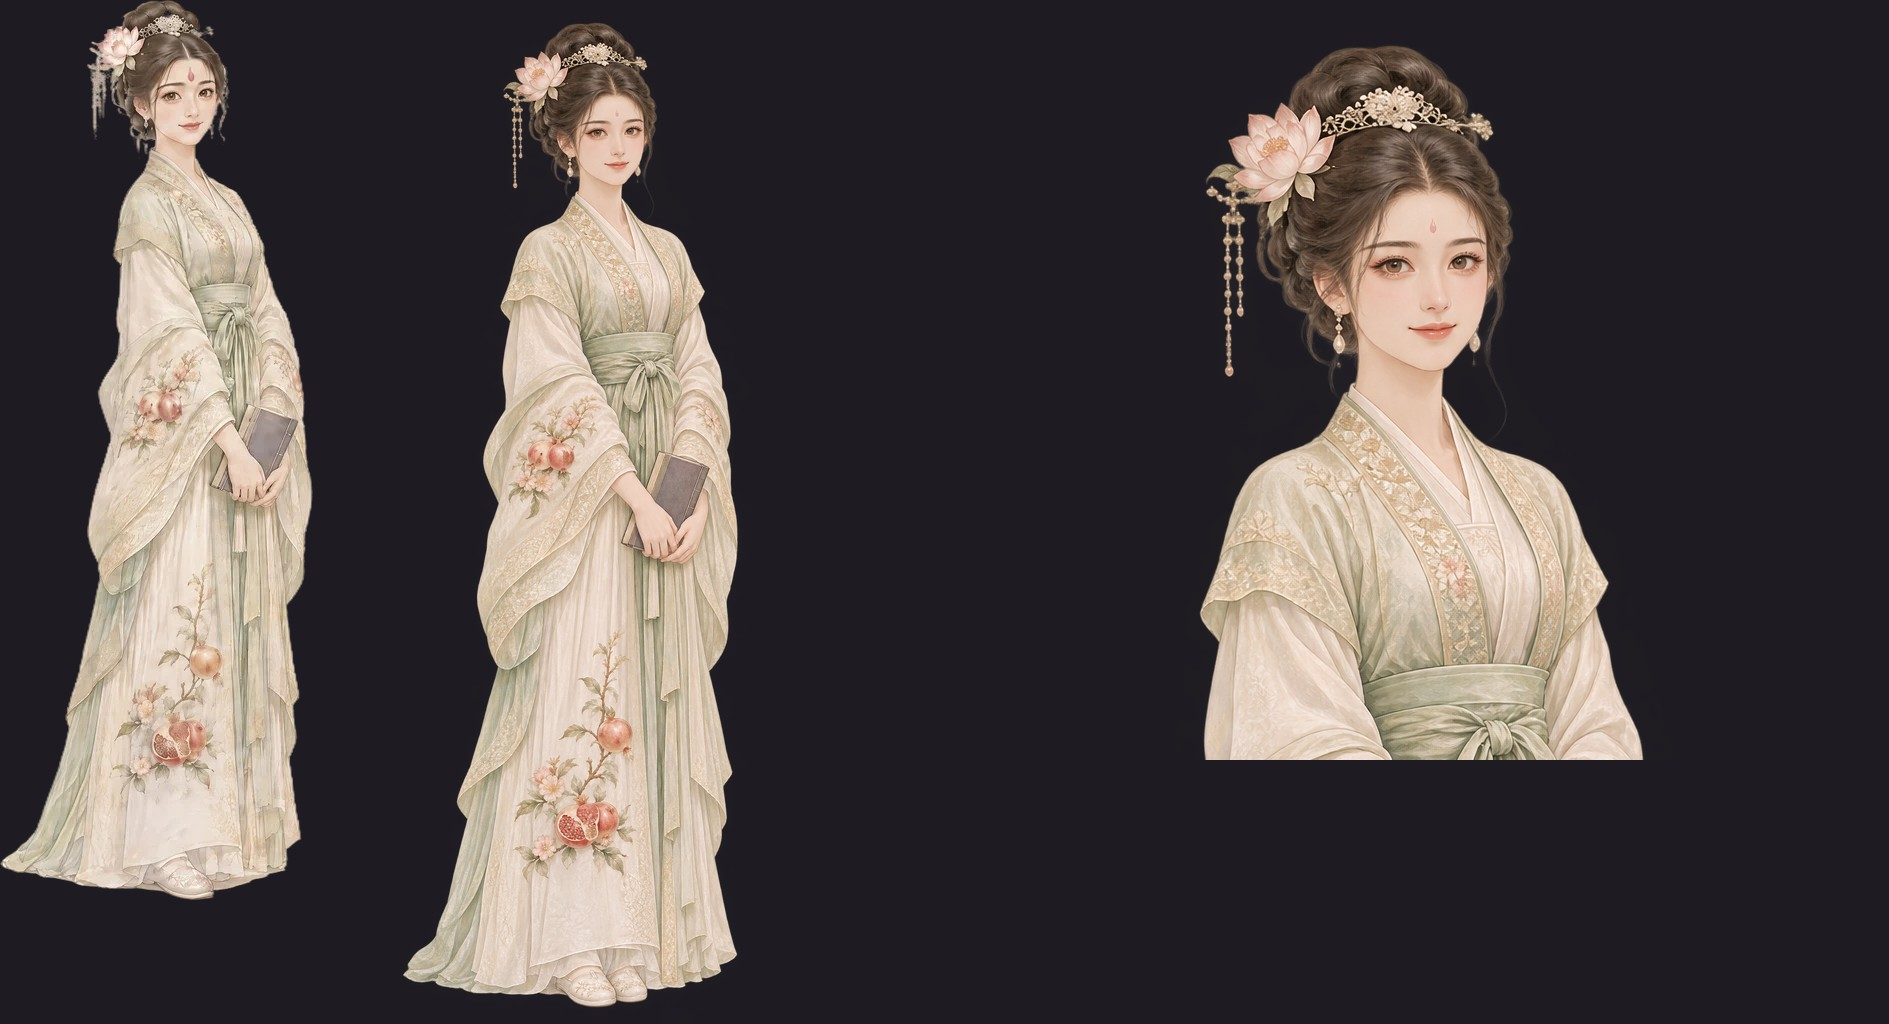
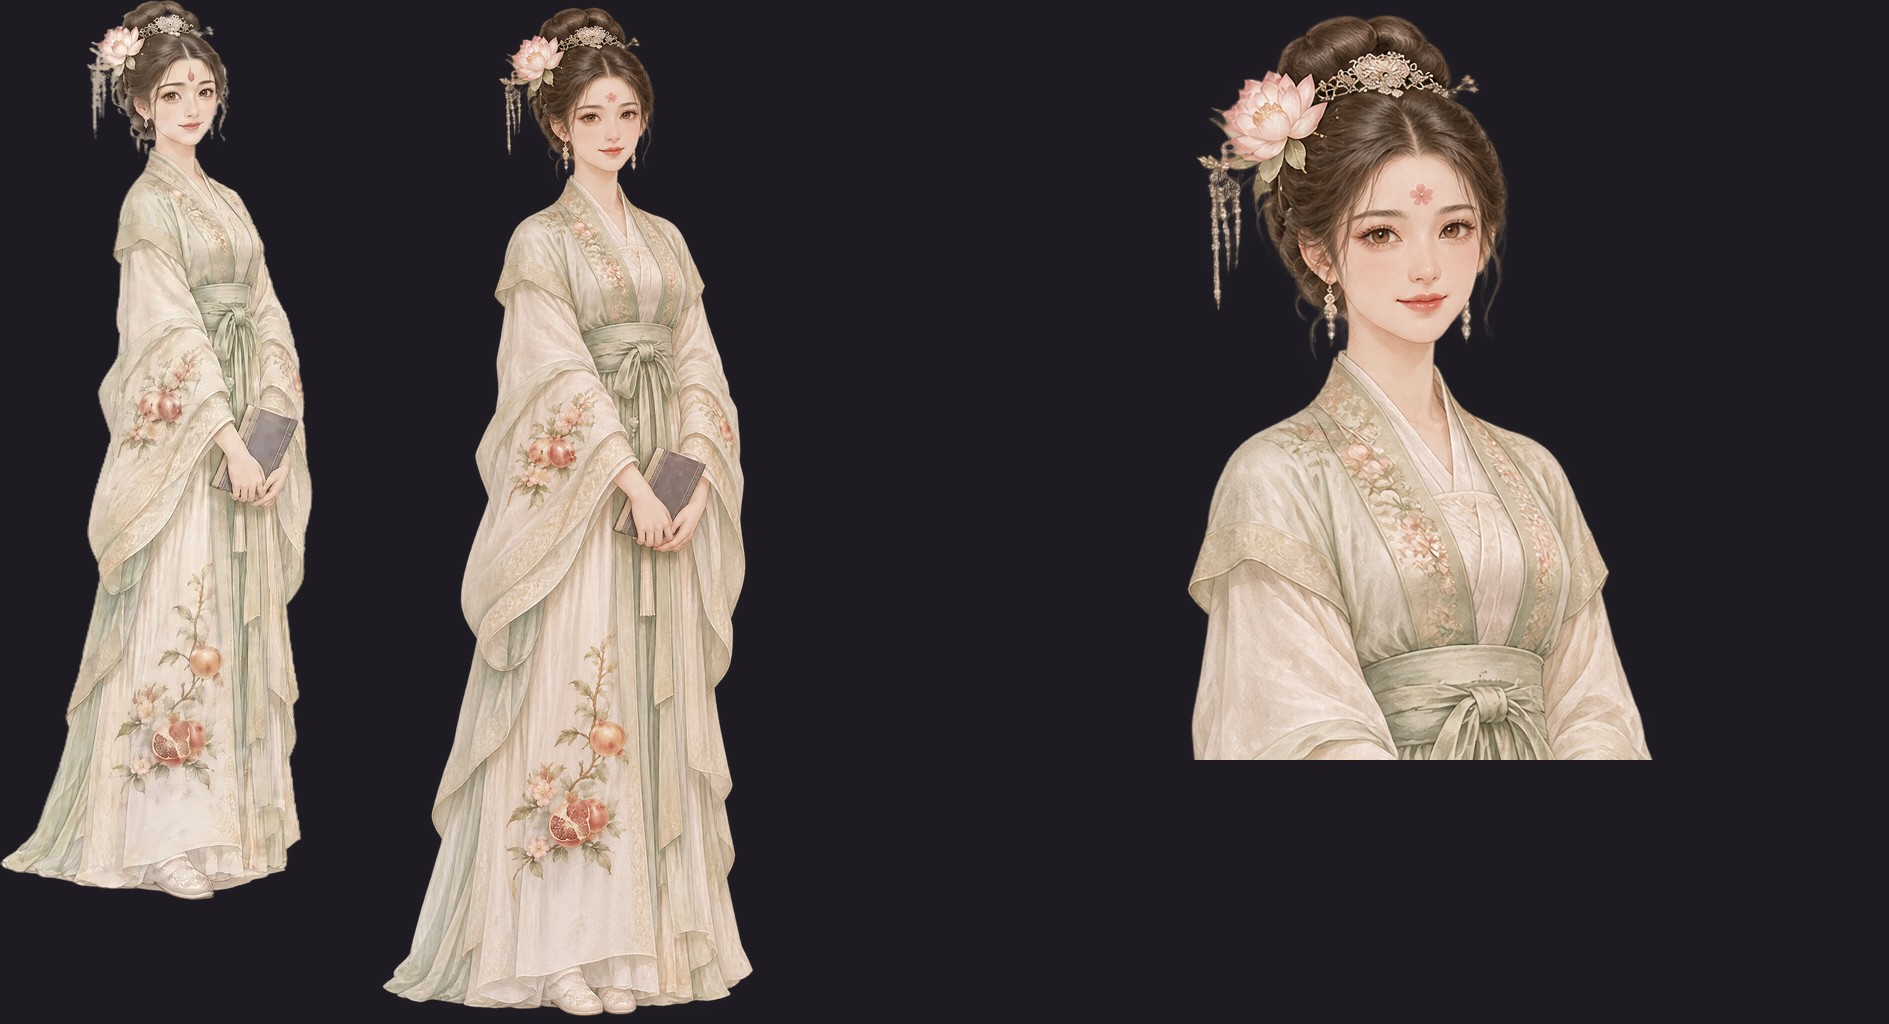
fig-cutout-clean: c28-t2 redo with flower huadian, huadian motif rule
Claude-Session: https://claude.ai/code/session_011xDdVSheHFnhXPEAMEEfZT

Changed region(s): [[0.1874, 0.0, 0.406, 1.0], [0.6247, 0.0, 0.8745, 0.75]]

diff --git a/dev/handover/reports/fig-cutout-clean.md b/dev/handover/reports/fig-cutout-clean.md
@@ -95,3 +95,7 @@ QA (qa_fig.py): edge px = 0 on all five (hem/sleeves inside canvas; min margin <
 Looked at every image (dark+light): c30 neck clean, no mark; c26 sleeves opaque, hand at the hairpin right (5 fingers); c28 huadian small; m22 calm frontal, scroll in both hands, left/right hands right; m47 calm frontal, peony at chest. Shoes visible on all. Sheets: urgent5/<c26|c28|c30|m22|m47>-t2-a18-before-after-{light,dark}.jpg (old 900px | new full body | new face+bust at NATIVE 1024 px, no downscale).
 NOT uploaded to CDN. Waiting for the owner's OK on the sheet (Foreman: no family batch until she OKs).
 IN-ROOM (iPad Pro 1366x1024 @2, real build of main, Thừa Minh stage; CDN consort requests answered with the new c30-t2 master): ingame-ipadpro-1366x1024x2-new-c30-t2-CROP.jpg (native 2732x2048 px crop, no downscale) and ...-old-vs-new-c30-t2-CROP.jpg (left = her current Quý phi figure, right = new c30-t2; outfits differ because the stage slot is her own figure, compare scale/sharpness/skin). New figure sits at the same stage size, hem and feet inside, skin matches the maid beside her, face sharp at 2x DPR.
+
+## c28-t2 REDO (16/11 ~22:25Z, Foreman C: owner hates the teardrop huadian)
+v1 had a pink TEARDROP -> FAIL. v2 (65 cr, same refs): tiny five-petal plum-blossom huadian, soft pink-red, ~1/12 face width; looked at dark+light: flower, small, rest unchanged. Sheets urgent5/c28-t2-a18-before-after-{light,dark}.jpg replaced. Not on CDN.
+STANDING PROMPT RULE (every generation in the batch): "HUADIAN: a TINY flower / leaf / butterfly / phoenix mark only, about 1/12 of face width; NO teardrop, NO droplet, NO dot, NO other shape." QA for the whole batch: LOOK at the forehead crop of every file (auto ratio is unreliable) — any teardrop/droplet = FAIL + regenerate; qa_fig prints a forehead crop strip for this (TODO next: add --crop output of the forehead 3x to qa_fig so the check is a single contact sheet per batch).
